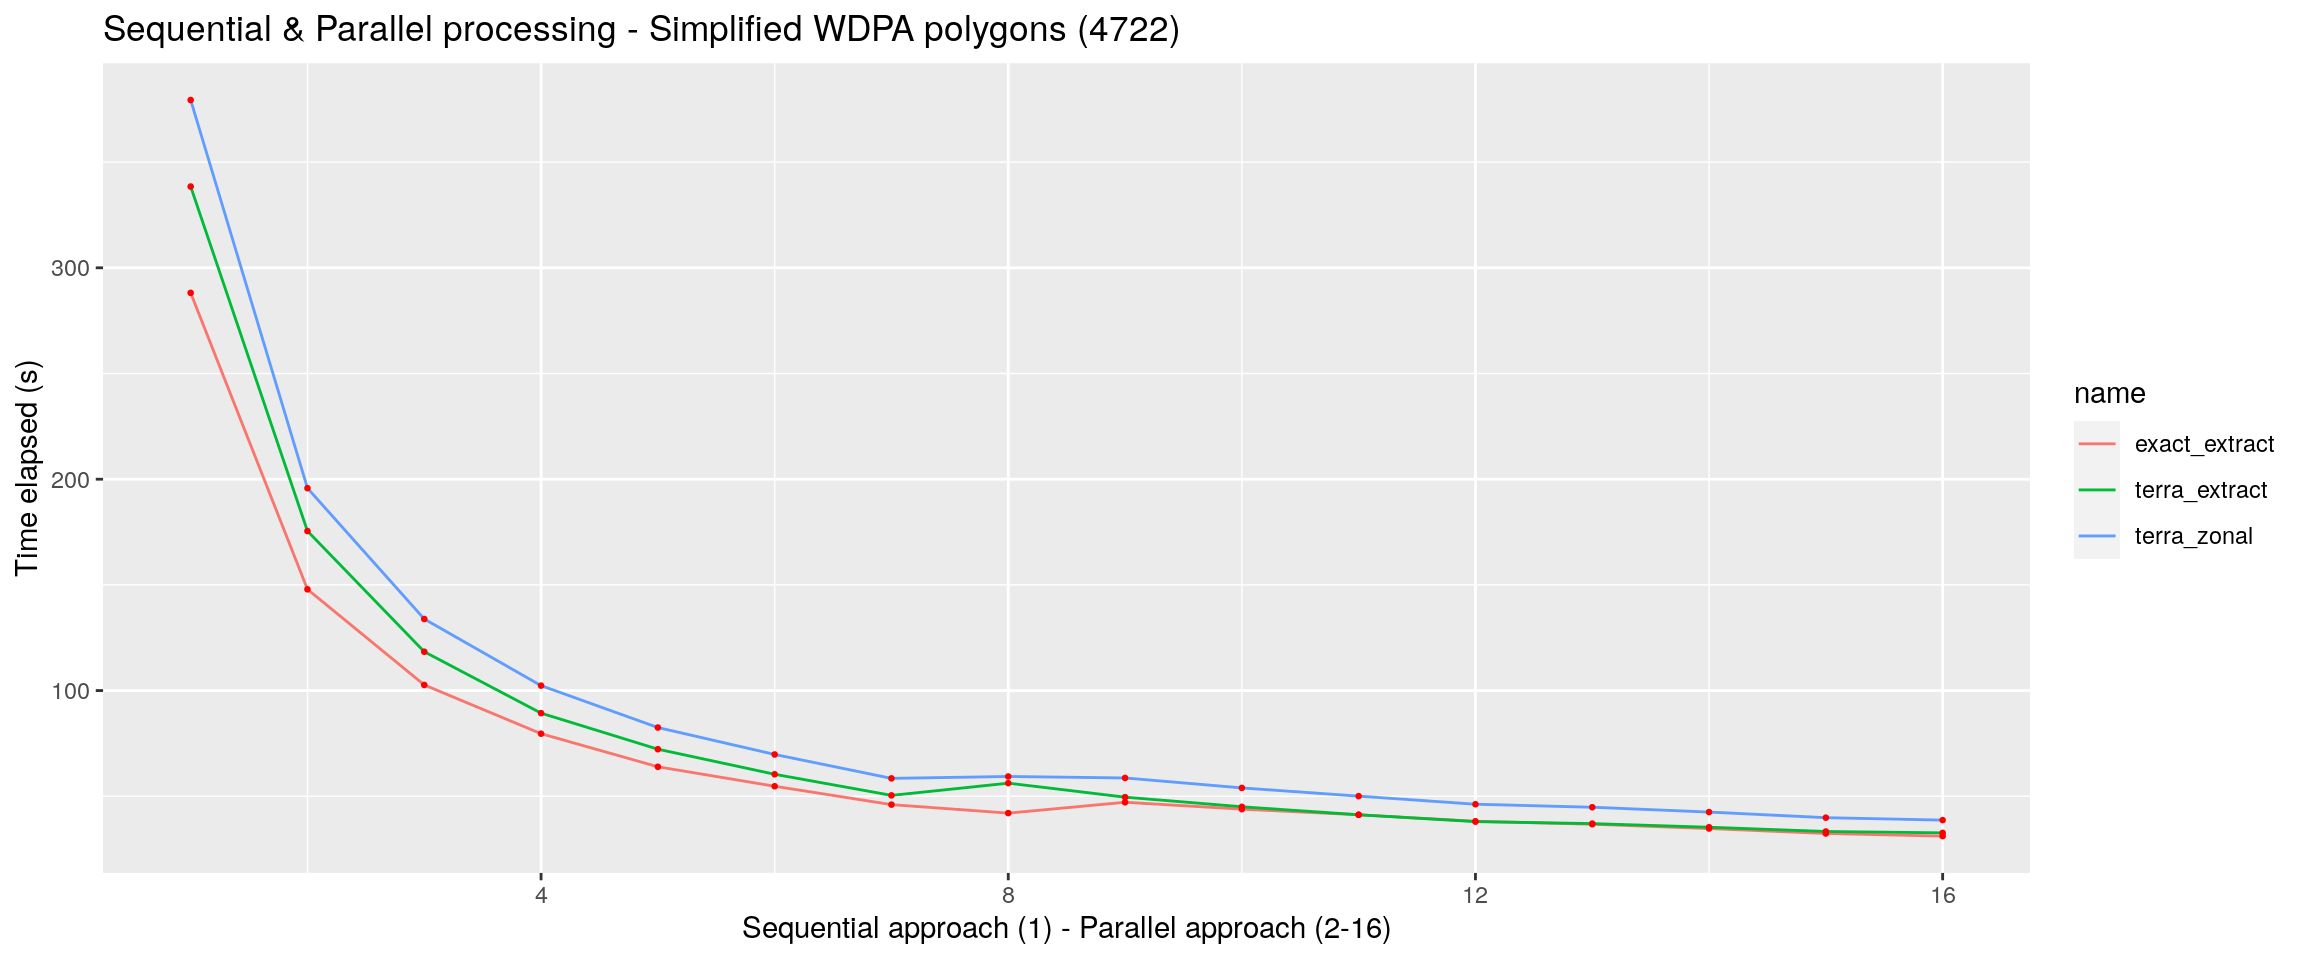
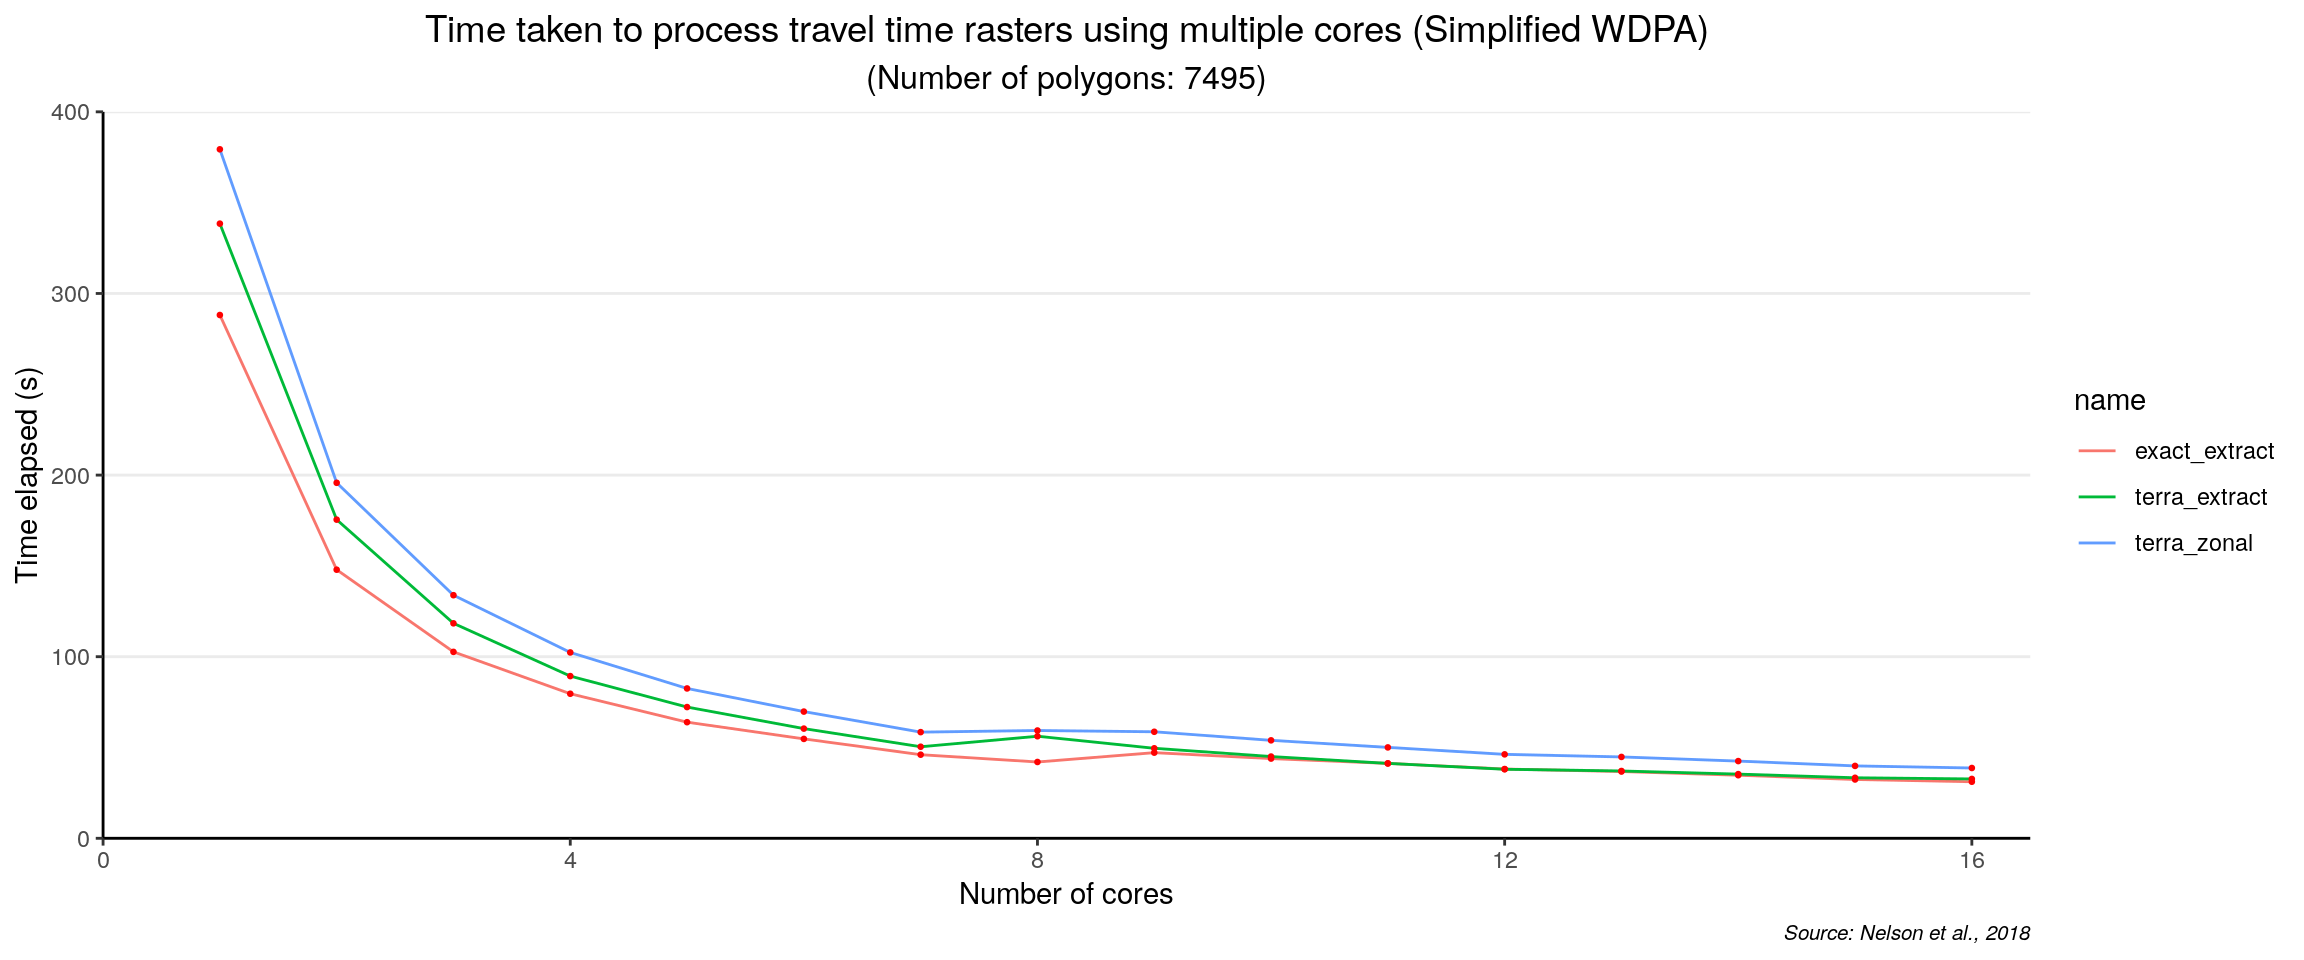
Build site.

diff --git a/docs/06_raster_benchmarks.html b/docs/06_raster_benchmarks.html
@@ -382,7 +382,7 @@ div.tocify {
 <div class="tab-content">
 <div id="summary" class="tab-pane fade in active">
 <p>
-<strong>Last updated:</strong> 2022-08-30
+<strong>Last updated:</strong> 2022-09-01
 </p>
 <p>
 <strong>Checks:</strong> <span class="glyphicon glyphicon-ok text-success" aria-hidden="true"></span> 7 <span class="glyphicon glyphicon-exclamation-sign text-danger" aria-hidden="true"></span> 0
@@ -473,16 +473,16 @@ This reproducible <a href="https://rmarkdown.rstudio.com">R Markdown</a> analysi
 <div class="panel panel-default">
 <div class="panel-heading">
 <p class="panel-title">
-<a data-toggle="collapse" data-parent="#workflowr-checks" href="#strongRepositoryversionstrongahrefhttpsgithubcomOhmNpmastersthesistree889b846405ab3f41170826c8c3b5e70179c71617targetblank889b846a"> <span class="glyphicon glyphicon-ok text-success" aria-hidden="true"></span> <strong>Repository version:</strong> <a href="https://github.com/Ohm-Np/masters-thesis/tree/889b846405ab3f41170826c8c3b5e70179c71617" target="_blank">889b846</a> </a>
+<a data-toggle="collapse" data-parent="#workflowr-checks" href="#strongRepositoryversionstrongahrefhttpsgithubcomOhmNpmastersthesistree87c53d6f767bb81fe6c9b1f61483419d3407ba05targetblank87c53d6a"> <span class="glyphicon glyphicon-ok text-success" aria-hidden="true"></span> <strong>Repository version:</strong> <a href="https://github.com/Ohm-Np/masters-thesis/tree/87c53d6f767bb81fe6c9b1f61483419d3407ba05" target="_blank">87c53d6</a> </a>
 </p>
 </div>
[2 lines of base64/hex data omitted]
 <div class="panel-body">
 <p>
 Great! You are using Git for version control. Tracking code development and connecting the code version to the results is critical for reproducibility.
 </p>
 <p>
-The results in this page were generated with repository version <a href="https://github.com/Ohm-Np/masters-thesis/tree/889b846405ab3f41170826c8c3b5e70179c71617" target="_blank">889b846</a>. See the <em>Past versions</em> tab to see a history of the changes made to the R Markdown and HTML files.
+The results in this page were generated with repository version <a href="https://github.com/Ohm-Np/masters-thesis/tree/87c53d6f767bb81fe6c9b1f61483419d3407ba05" target="_blank">87c53d6</a>. See the <em>Past versions</em> tab to see a history of the changes made to the R Markdown and HTML files.
 </p>
 <p>
 Note that you need to be careful to ensure that all relevant files for the analysis have been committed to Git prior to generating the results (you can use <code>wflow_publish</code> or <code>wflow_git_commit</code>). workflowr only checks the R Markdown file, but you know if there are other scripts or data files that it depends on. Below is the status of the Git repository when the results were generated:
@@ -492,6 +492,24 @@ Ignored files:
     Ignored:    .RData
     Ignored:    .Rhistory
     Ignored:    .Rproj.user/
+
+Untracked files:
+    Untracked:  data/results/mapme_biodiversity/srtm_1-16_wdpa.csv
+
+Unstaged changes:
+    Modified:   code/04_seq_vs_par_fishnets.R
+    Modified:   data/results/04_seq_v_par_fishnets/ee_00005.csv
+    Modified:   data/results/04_seq_v_par_fishnets/ee_0001.csv
+    Modified:   data/results/04_seq_v_par_fishnets/ee_001.csv
+    Modified:   data/results/04_seq_v_par_fishnets/ee_01.csv
+    Modified:   data/results/04_seq_v_par_fishnets/te_00005.csv
+    Modified:   data/results/04_seq_v_par_fishnets/te_0001.csv
+    Modified:   data/results/04_seq_v_par_fishnets/te_001.csv
+    Modified:   data/results/04_seq_v_par_fishnets/te_01.csv
+    Modified:   data/results/04_seq_v_par_fishnets/tz_00005.csv
+    Modified:   data/results/04_seq_v_par_fishnets/tz_0001.csv
+    Modified:   data/results/04_seq_v_par_fishnets/tz_001.csv
+    Modified:   data/results/04_seq_v_par_fishnets/tz_01.csv
 
 </code></pre>
 <p>
@@ -530,6 +548,40 @@ Message
 </tr>
 </thead>
 <tbody>
+<tr>
+<td>
+Rmd
+</td>
+<td>
+<a href="https://github.com/Ohm-Np/masters-thesis/blob/87c53d6f767bb81fe6c9b1f61483419d3407ba05/analysis/06_raster_benchmarks.Rmd" target="_blank">87c53d6</a>
+</td>
+<td>
+Ohm-Np
+</td>
+<td>
+2022-09-01
+</td>
+<td>
+wflow_publish(“analysis/06_raster_benchmarks.Rmd”)
+</td>
+</tr>
+<tr>
+<td>
+html
+</td>
+<td>
+<a href="https://rawcdn.githack.com/Ohm-Np/masters-thesis/933bda8f576233eb09c7f6f42cc5905ed4c85eb0/docs/06_raster_benchmarks.html" target="_blank">933bda8</a>
+</td>
+<td>
+Ohm-Np
+</td>
+<td>
+2022-08-30
+</td>
+<td>
+update analysis
+</td>
+</tr>
 <tr>
 <td>
 html
@@ -590,7 +642,7 @@ wflow_publish(“analysis/06_raster_benchmarks.Rmd”)
 <ul>
 <li>WDPA polygons (7495)<br />
 </li>
-<li>Simplified WDPA polygons (4722)<br />
+<li>Simplified WDPA polygons (7495)<br />
 </li>
 <li>Fishnets: 5 sq.km. (216425)</li>
 </ul>
@@ -636,8 +688,8 @@ Ohm-Np
 </div>
 </div>
 </div>
-<div id="simplified-wdpa-polygons-4722" class="section level4">
-<h4>Simplified WDPA polygons (4722)</h4>
+<div id="simplified-wdpa-polygons-7495" class="section level4">
+<h4>Simplified WDPA polygons (7495)</h4>
 <pre class="r"><code>acc_simplified_wdpa</code></pre>
 <p><img src="figure/06_raster_benchmarks.Rmd/accplot2-1.png" width="1152" style="display: block; margin: auto;" /></p>
 <p>
@@ -662,6 +714,17 @@ Date
 </tr>
 </thead>
 <tbody>
+<tr>
+<td>
+<a href="https://github.com/Ohm-Np/masters-thesis/blob/933bda8f576233eb09c7f6f42cc5905ed4c85eb0/docs/figure/06_raster_benchmarks.Rmd/accplot2-1.png" target="_blank">933bda8</a>
+</td>
+<td>
+Ohm-Np
+</td>
+<td>
+2022-08-30
+</td>
+</tr>
 <tr>
 <td>
 <a href="https://github.com/Ohm-Np/masters-thesis/blob/49ae866761448d9c7fbfc4a77f21f3c72d4faebb/docs/figure/06_raster_benchmarks.Rmd/accplot2-1.png" target="_blank">49ae866</a>
@@ -770,7 +833,7 @@ Ohm-Np
 <ul>
 <li>WDPA polygons (7495)<br />
 </li>
-<li>Simplified WDPA polygons (4722)<br />
+<li>Simplified WDPA polygons (7495)<br />
 </li>
 <li>Fishnets: 5 sq.km. (216425)</li>
 </ul>
@@ -816,8 +879,8 @@ Ohm-Np
 </div>
 </div>
 </div>
-<div id="simplified-wdpa-polygons-4722-1" class="section level4">
-<h4>Simplified WDPA polygons (4722)</h4>
+<div id="simplified-wdpa-polygons-7495-1" class="section level4">
+<h4>Simplified WDPA polygons (7495)</h4>
 <pre class="r"><code>wp_simplified_wdpa</code></pre>
 <p><img src="figure/06_raster_benchmarks.Rmd/wp2-1.png" width="1152" style="display: block; margin: auto;" /></p>
 <p>
@@ -842,6 +905,17 @@ Date
 </tr>
 </thead>
 <tbody>
+<tr>
+<td>
+<a href="https://github.com/Ohm-Np/masters-thesis/blob/933bda8f576233eb09c7f6f42cc5905ed4c85eb0/docs/figure/06_raster_benchmarks.Rmd/wp2-1.png" target="_blank">933bda8</a>
+</td>
+<td>
+Ohm-Np
+</td>
+<td>
+2022-08-30
+</td>
+</tr>
 <tr>
 <td>
 <a href="https://github.com/Ohm-Np/masters-thesis/blob/49ae866761448d9c7fbfc4a77f21f3c72d4faebb/docs/figure/06_raster_benchmarks.Rmd/wp2-1.png" target="_blank">49ae866</a>
@@ -950,10 +1024,20 @@ Ohm-Np
 <ul>
 <li>WDPA polygons (7495)<br />
 </li>
-<li>Simplified WDPA polygons (4722)<br />
+<li>Simplified WDPA polygons (7495)<br />
 </li>
 <li>Fishnets: 5 sq.km. (216425)</li>
 </ul>
+<div id="wdpa-polygons-7495-2" class="section level4">
+<h4>WDPA polygons (7495)</h4>
+<pre class="r"><code>sr_wdpa</code></pre>
+<p><img src="figure/06_raster_benchmarks.Rmd/srplot-1.png" width="1152" style="display: block; margin: auto;" /></p>
+</div>
+<div id="factor-plot-wdpa---terraextract" class="section level3">
+<h3>Factor plot (WDPA - terra::extract)</h3>
+<p>We already saw how using the different number of cores affect the processing time and it follows more or less exponential pattern. Now, we want to see the plot showing factor by which the processing time increases with increase in the number of cores.</p>
+<pre class="r"><code>fct_plot3</code></pre>
+<p><img src="figure/06_raster_benchmarks.Rmd/fctplot3-1.png" width="1152" style="display: block; margin: auto;" /></p>
 <br>
 <p>
 <button type="button" class="btn btn-default btn-workflowr btn-workflowr-sessioninfo" data-toggle="collapse" data-target="#workflowr-sessioninfo" style="display: block;">
@@ -980,23 +1064,25 @@ attached base packages:
 [1] stats     graphics  grDevices utils     datasets  methods   base     
 
 other attached packages:
-[1] dplyr_1.0.9   ggplot2_3.3.6
+[1] dplyr_1.0.9     ggplot2_3.3.6   workflowr_1.7.0
 
 loaded via a namespace (and not attached):
- [1] Rcpp_1.0.9       highr_0.9        pillar_1.8.1     compiler_3.6.3  
- [5] bslib_0.4.0      later_1.3.0      jquerylib_0.1.4  git2r_0.30.1    
- [9] workflowr_1.7.0  tools_3.6.3      digest_0.6.29    gtable_0.3.0    
-[13] jsonlite_1.8.0   evaluate_0.16    lifecycle_1.0.1  tibble_3.1.8    
-[17] pkgconfig_2.0.3  rlang_1.0.4      DBI_1.1.3        cli_3.3.0       
-[21] rstudioapi_0.13  yaml_2.3.5       xfun_0.32        fastmap_1.1.0   
-[25] withr_2.5.0      stringr_1.4.1    knitr_1.39       generics_0.1.3  
-[29] fs_1.5.2         vctrs_0.4.1      sass_0.4.2       tidyselect_1.1.2
-[33] rprojroot_2.0.3  grid_3.6.3       glue_1.6.2       R6_2.5.1        
-[37] fansi_1.0.3      rmarkdown_2.15.2 farver_2.1.1     tidyr_1.2.0     
-[41] purrr_0.3.4      magrittr_2.0.3   whisker_0.4      ellipsis_0.3.2  
-[45] scales_1.2.0     promises_1.2.0.1 htmltools_0.5.3  assertthat_0.2.1
-[49] colorspace_2.0-3 httpuv_1.6.5     labeling_0.4.2   utf8_1.2.2      
-[53] stringi_1.7.8    munsell_0.5.0    cachem_1.0.6    </code></pre>
+ [1] tidyselect_1.1.2 xfun_0.32        bslib_0.4.0      purrr_0.3.4     
+ [5] colorspace_2.0-3 vctrs_0.4.1      generics_0.1.3   htmltools_0.5.3 
+ [9] yaml_2.3.5       utf8_1.2.2       rlang_1.0.4      jquerylib_0.1.4 
+[13] later_1.3.0      pillar_1.8.1     glue_1.6.2       withr_2.5.0     
+[17] DBI_1.1.3        lifecycle_1.0.1  stringr_1.4.1    munsell_0.5.0   
+[21] gtable_0.3.0     evaluate_0.16    labeling_0.4.2   knitr_1.39      
+[25] callr_3.7.1      fastmap_1.1.0    httpuv_1.6.5     ps_1.7.1        
+[29] fansi_1.0.3      highr_0.9        Rcpp_1.0.9       promises_1.2.0.1
+[33] scales_1.2.0     cachem_1.0.6     jsonlite_1.8.0   farver_2.1.1    
+[37] fs_1.5.2         digest_0.6.29    stringi_1.7.8    processx_3.7.0  
+[41] getPass_0.2-2    rprojroot_2.0.3  grid_3.6.3       cli_3.3.0       
+[45] tools_3.6.3      magrittr_2.0.3   sass_0.4.2       tibble_3.1.8    
+[49] whisker_0.4      tidyr_1.2.0      pkgconfig_2.0.3  ellipsis_0.3.2  
+[53] assertthat_0.2.1 rmarkdown_2.15.2 httr_1.4.4       rstudioapi_0.13 
+[57] R6_2.5.1         git2r_0.30.1     compiler_3.6.3  </code></pre>
+</div>
 </div>
 </div>
 
